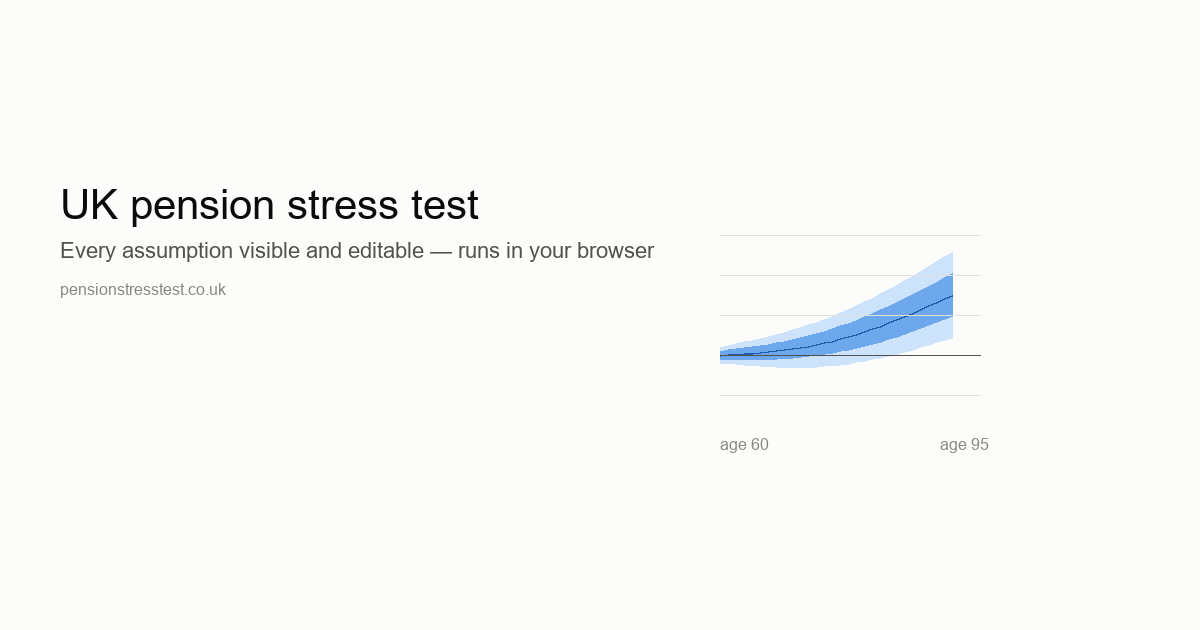
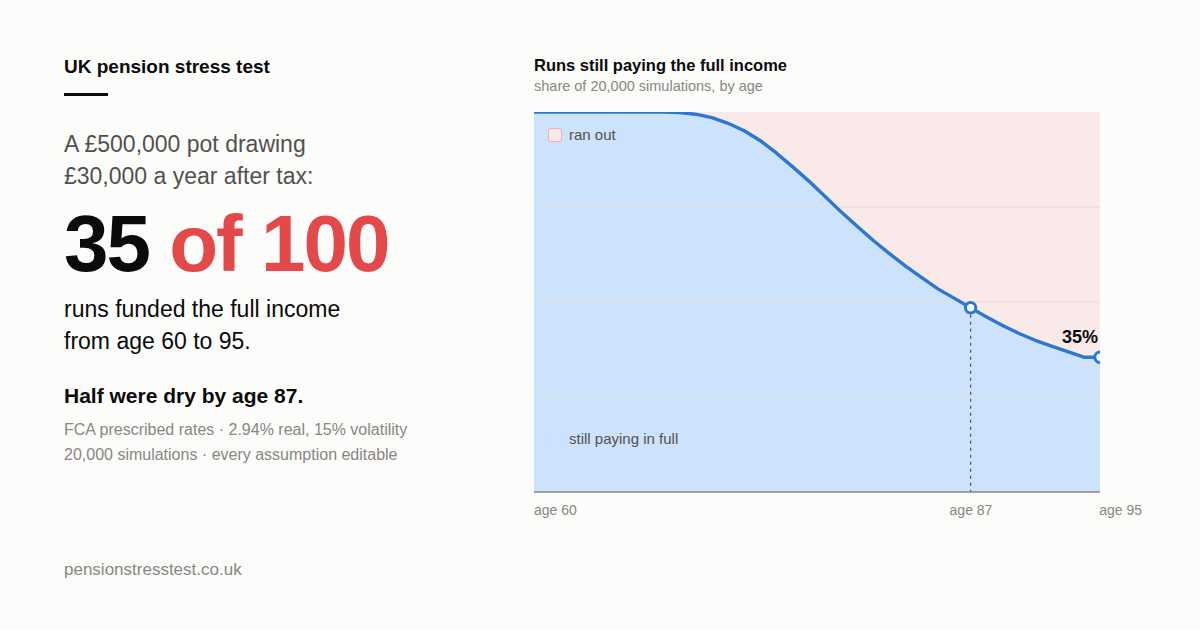
update 20082026 real og.png

diff --git a/public/index.html b/public/index.html
@@ -13,13 +13,13 @@
 <meta property="og:image" content="https://pensionstresstest.co.uk/og.png">
 <meta property="og:image:width" content="1200">
 <meta property="og:image:height" content="630">
-<meta property="og:image:alt" content="UK pension stress test — a fan chart of possible pension pot paths from age 60 to 95.">
+<meta property="og:image:alt" content="UK pension stress test — of 20,000 simulated runs, 35 in 100 funded a £30,000 income from a £500,000 pot to age 95; half were dry by 87.">
 <meta property="og:locale" content="en_GB">
 <meta name="twitter:card" content="summary_large_image">
 <meta name="twitter:title" content="UK pension stress test">
 <meta name="twitter:description" content="Free and independent. Every assumption visible and editable. Runs entirely in your browser — no data collected.">
 <meta name="twitter:image" content="https://pensionstresstest.co.uk/og.png">
-<meta name="twitter:image:alt" content="UK pension stress test — a fan chart of possible pension pot paths from age 60 to 95.">
+<meta name="twitter:image:alt" content="UK pension stress test — of 20,000 simulated runs, 35 in 100 funded a £30,000 income from a £500,000 pot to age 95; half were dry by 87.">
 
 <script type="application/ld+json">
 {
